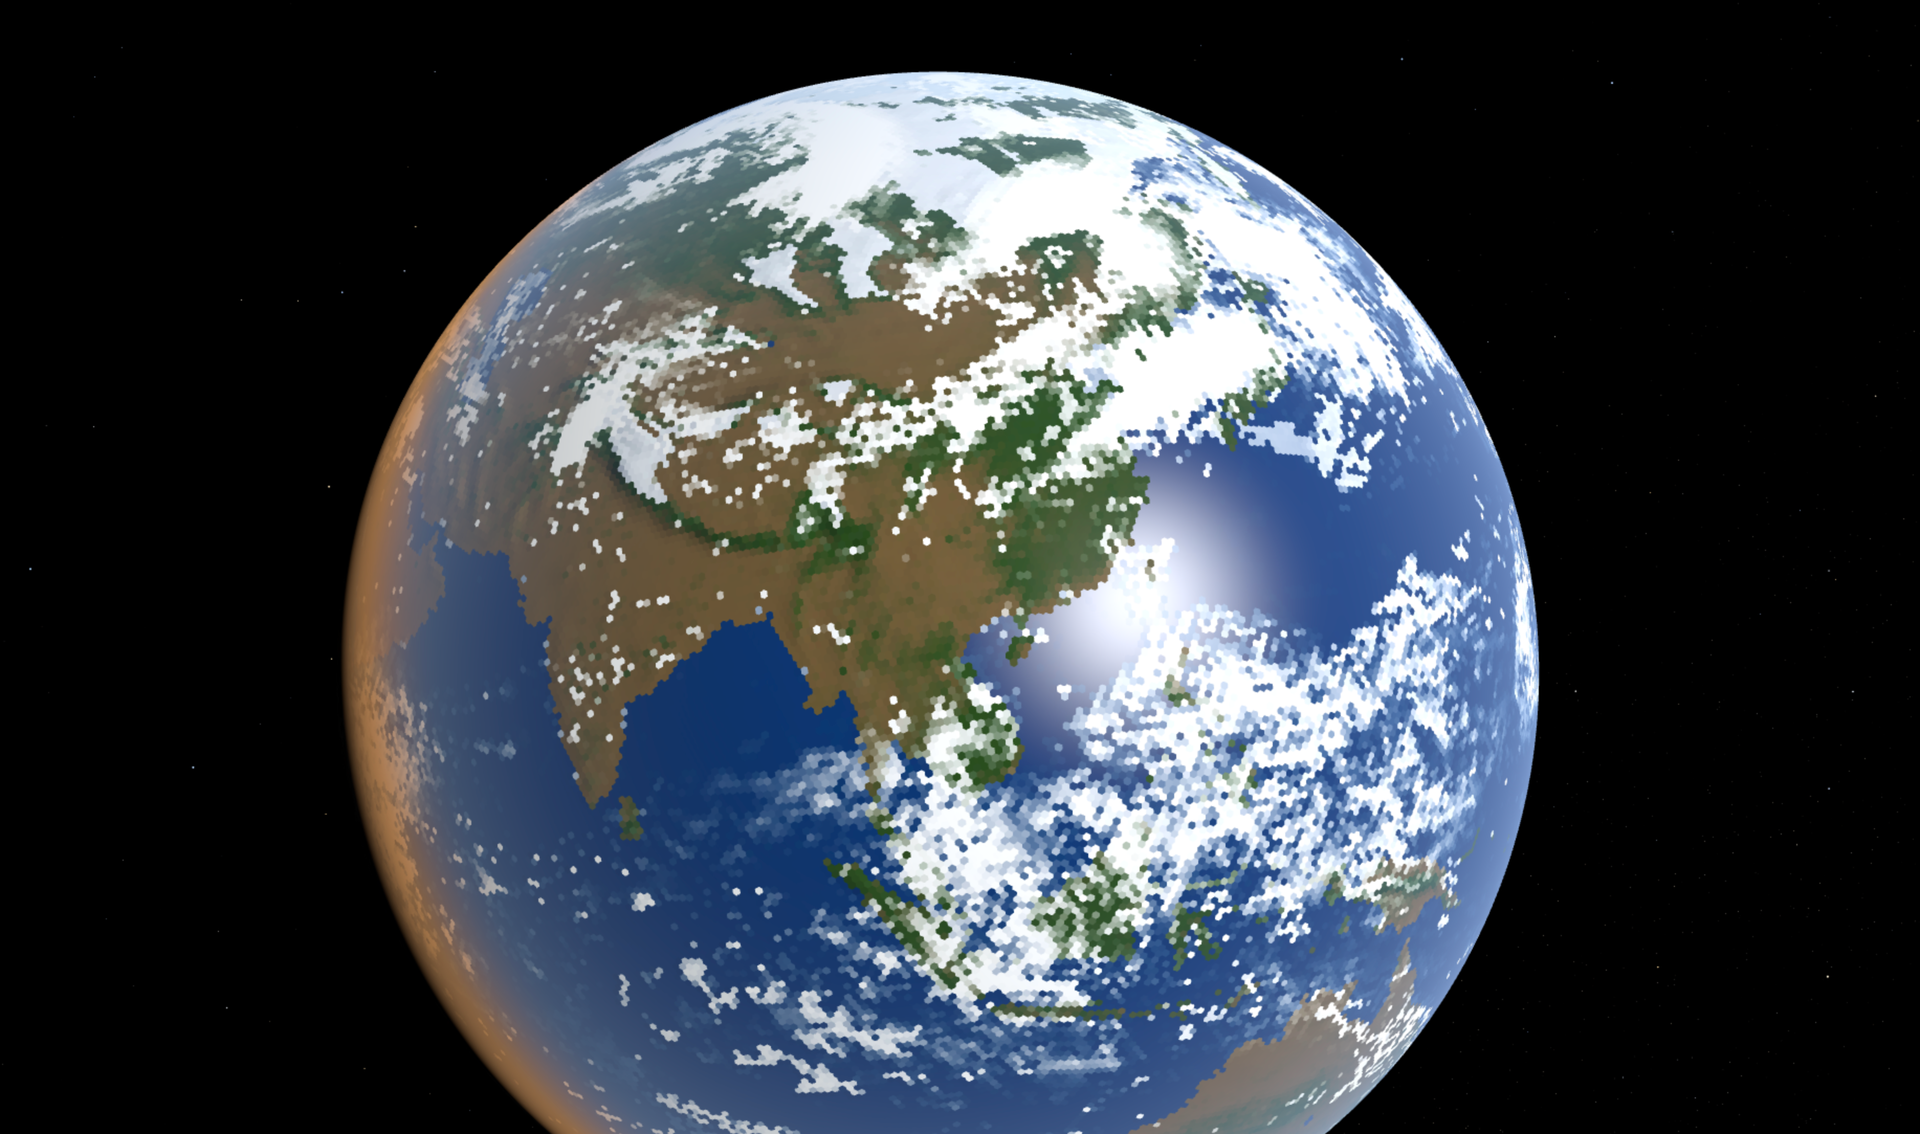
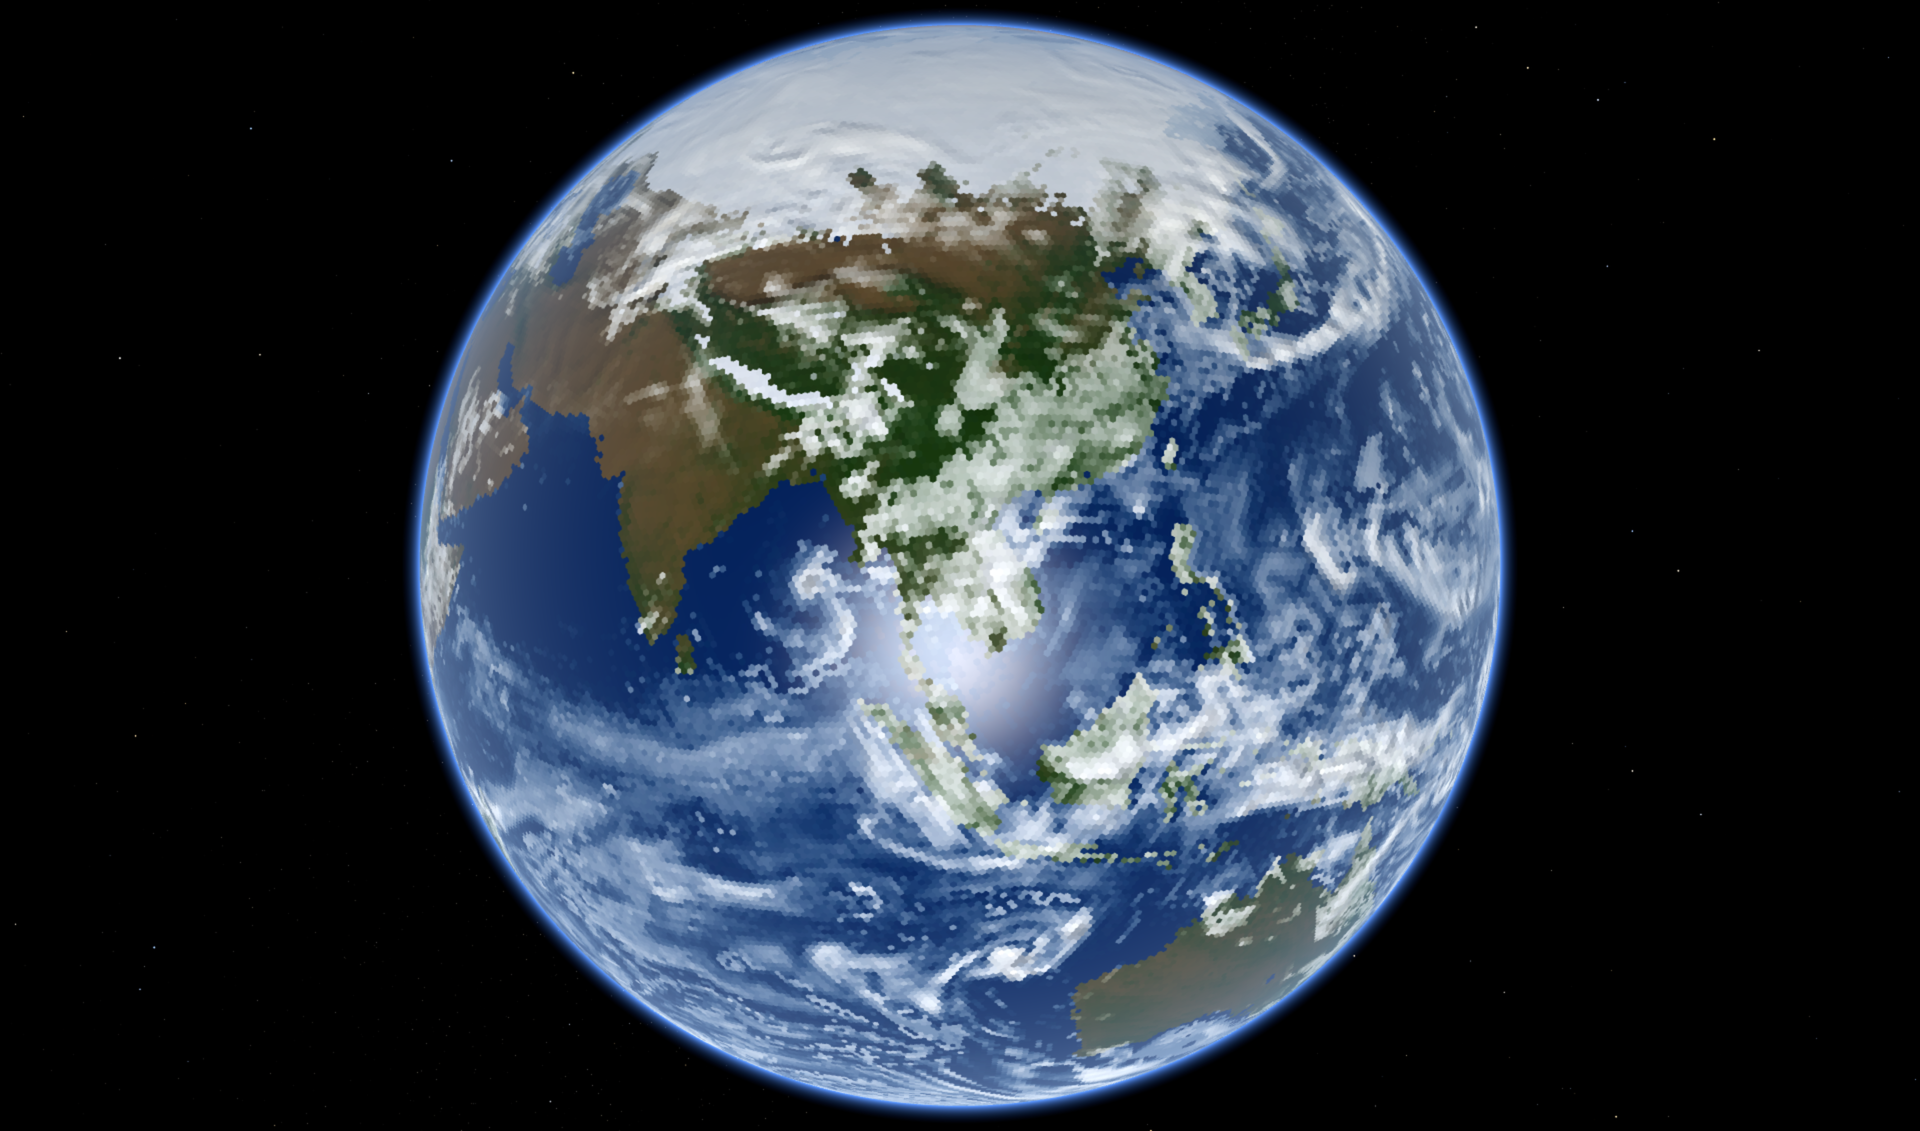
Landing page: twenty new carousel views from the eleven state
The ten slides from the six-layer ocean give way to twenty taken from
the page's default state (eleven128_day1825, the March equinox) in a
headless Chrome for Testing at twice the display size and scaled to
1920 wide: the five satellite views (the Americas with the terminator
over the Pacific, Europe and Africa, Asia and Australia, sunset over
the Pacific with the twilight at the limb, Antarctica at the equinox),
nine atmosphere views (surface wind, the 250 hPa jet, a Gulf of Alaska
storm with isobars and vectors, surface temperature, total precipitable
water, vertical motion through a North Atlantic storm, outgoing
longwave, March snow cover, vegetation) and six ocean views (the Gulf
Stream, the Kuroshio, sea surface temperature, the Equatorial
Undercurrent at 150 m, the Labrador and Irminger Seas' winter mixed
layer, the North Brazil Current). Each slide links to its view with the
page's current lighting defaults.

diff --git a/index.html b/index.html
@@ -59,17 +59,27 @@
     <section class="card hero">
       <div class="carousel" role="region" aria-roledescription="carousel" aria-label="Views of the model">
         <div class="frame">
-          <a class="slide" href="climate.html?view=space&overlay=current&animate=particles&isobars=off&graticule=off&projection=sphere&lat=8.2&lon=-91.4&zoom=307&level=surface&isobarStep=10&heightStep=30&palette=dusk&panel=closed&sun=1.11&ambient=0.0008&stats=off&roll=0.5" data-caption="Satellite view of the Americas"><img data-src="screenshots/carousel_1.png" width="1920" height="1131" alt="The Americas seen from space, with clouds over the Caribbean and the Amazon and night over the eastern Pacific"></a>
-          <a class="slide" href="climate.html?view=space&overlay=current&animate=particles&isobars=off&graticule=off&projection=sphere&lat=7.6&lon=10.8&zoom=307&level=surface&isobarStep=10&heightStep=30&palette=dusk&panel=closed&sun=1.11&ambient=0.0008&stats=off&roll=4.9" data-caption="Satellite view of Africa and Europe"><img data-src="screenshots/carousel_2.png" width="1920" height="1135" alt="Africa and Europe seen from space, with the Sahara, the Mediterranean and the sunglint off West Africa"></a>
-          <a class="slide" href="climate.html?view=space&overlay=current&animate=particles&isobars=off&graticule=off&projection=sphere&lat=15.6&lon=103.1&zoom=336&level=surface&isobarStep=10&heightStep=30&palette=dusk&panel=closed&sun=1.11&ambient=0.0008&stats=off&roll=3.6" data-caption="Satellite view of East Asia, India and Australia"><img data-src="screenshots/carousel_3.png" width="1920" height="1134" alt="Asia seen from space, from Siberia to the cloud over the Maritime Continent and northern Australia"></a>
-          <a class="slide" href="climate.html?view=atmosphere&overlay=wind&animate=particles&isobars=off&graticule=off&projection=map&lat=0.9&lon=4.6&zoom=136&level=surface&isobarStep=10&heightStep=30&palette=dusk&panel=closed&sun=1.11&ambient=0.0008&stats=off&roll=-0.3" data-caption="Surface wind speed on the Equal Earth projection, with wind particles"><img data-src="screenshots/carousel_4.png" width="1920" height="1108" alt="A world map of surface wind speed, with the storm tracks of both hemispheres in green and red"></a>
-          <a class="slide" href="climate.html?view=atmosphere&overlay=wind&animate=none&isobars=on&graticule=off&projection=sphere&lat=47&lon=27&zoom=580&level=250&isobarStep=10&heightStep=30&palette=dusk&panel=closed&sun=1.11&ambient=0.0008&stats=off" data-caption="The jet stream over Europe, the Middle East and North Africa"><img data-src="screenshots/carousel_5.png" width="1920" height="1097" alt="Wind speed at 250 hPa with height contours, the polar jet over Europe and the subtropical jet over North Africa and the Middle East"></a>
-          <a class="slide" href="climate.html?view=atmosphere&overlay=wind&animate=arrows&isobars=off&graticule=off&projection=sphere&lat=45&lon=125&zoom=1000&level=surface&isobarStep=10&heightStep=30&palette=dusk&panel=closed&sun=1.11&ambient=0.0008&stats=off" data-caption="Wind speed and vectors around a storm over northern China"><img data-src="screenshots/carousel_6.png" width="1920" height="1100" alt="A close view of surface wind speed and wind arrows circling a storm over northeast China"></a>
-          <a class="slide" href="climate.html?view=ocean&overlay=current&animate=particles&isobars=off&graticule=off&projection=sphere&lat=27.4&lon=133.5&zoom=1050&level=surface&isobarStep=10&heightStep=30&palette=dusk&panel=closed&sun=1.11&ambient=0.0008&stats=off" data-caption="The Kuroshio Current: current speed with particles"><img data-src="screenshots/carousel_7.png" width="1920" height="1094" alt="Ocean current speed south of Japan, with the Kuroshio running from Taiwan along the Japanese coast and out into the Pacific"></a>
-          <a class="slide" href="climate.html?view=ocean&overlay=current&animate=particles&isobars=off&graticule=off&projection=sphere&lat=29.2&lon=-73.1&zoom=703&level=surface&isobarStep=5&heightStep=30&palette=dusk&panel=closed&sun=1.11&ambient=0.0008&stats=off&roll=-2.3" data-caption="The Gulf Stream"><img data-src="screenshots/carousel_8.png" width="1920" height="1094" alt="Ocean current speed off North America, with the Gulf Stream leaving the Gulf of Mexico and meandering out into the Atlantic"></a>
-          <a class="slide" href="climate.html?view=atmosphere&overlay=temp&animate=particles&isobars=on&graticule=off&projection=map&lat=0.1&lon=150.4&zoom=140&level=surface&isobarStep=10&heightStep=30&palette=dusk&panel=closed&sun=1.11&ambient=0.0008&stats=off" data-caption="Global surface temperature with sea-level pressure isobars and wind particles"><img data-src="screenshots/carousel_9.png" width="1920" height="1101" alt="A world map of surface temperature centred on the Pacific, with isobars and the wind particles"></a>
-          <a class="slide" href="climate.html?view=atmosphere&overlay=tpw&animate=particles&isobars=off&graticule=off&projection=map&lat=1.8&lon=-0.2&zoom=140&level=surface&isobarStep=10&heightStep=30&palette=viridis&panel=closed&sun=1.11&ambient=0.0008&stats=off" data-caption="Global total precipitable water with surface wind particles"><img data-src="screenshots/carousel_10.png" width="1920" height="1104" alt="A world map of total precipitable water, with the moist tropics in yellow and plumes of moisture reaching into the midlatitudes"></a>
-          <noscript><img src="screenshots/carousel_1.png" width="1920" height="1131" alt="The Americas seen from space"></noscript>
+          <a class="slide" href="climate.html?view=space&projection=sphere&lat=8&lon=-91&zoom=307&panel=closed&stats=off&graticule=off" data-caption="Satellite view of the Americas"><img data-src="screenshots/carousel_1.png" width="1920" height="1131" alt="The Americas seen from space, with cloud over the Caribbean and the Amazon and the sunglint in the eastern Pacific"></a>
+          <a class="slide" href="climate.html?view=space&projection=sphere&lat=8&lon=11&zoom=307&panel=closed&stats=off&graticule=off" data-caption="Satellite view of Europe and Africa"><img data-src="screenshots/carousel_2.png" width="1920" height="1131" alt="Europe and Africa seen from space, with the Sahara, the Mediterranean and the rain clouds of the Congo basin"></a>
+          <a class="slide" href="climate.html?view=space&projection=sphere&lat=16&lon=103&zoom=336&panel=closed&stats=off&graticule=off" data-caption="Satellite view of Asia and Australia"><img data-src="screenshots/carousel_3.png" width="1920" height="1131" alt="Asia seen from space, from Siberia to the cloud over the Maritime Continent and northern Australia"></a>
+          <a class="slide" href="climate.html?view=space&projection=sphere&lat=12&lon=170&zoom=520&panel=closed&stats=off&graticule=off" data-caption="Sunset over the Pacific: the terminator and the twilight at the limb"><img data-src="screenshots/carousel_4.png" width="1920" height="1131" alt="A close view of the day–night terminator crossing the Pacific, the sunlit clouds reddening toward the night side and the blue twilight along the limb"></a>
+          <a class="slide" href="climate.html?view=space&projection=sphere&lat=-72&lon=0&zoom=340&panel=closed&stats=off&graticule=off" data-caption="Antarctica at the March equinox, with the sun on the horizon"><img data-src="screenshots/carousel_5.png" width="1920" height="1131" alt="Antarctica and the Southern Ocean seen from above the pole, half lit by a sun on the horizon, with the sea ice and the storms around the continent"></a>
+          <a class="slide" href="climate.html?view=atmosphere&overlay=wind&level=surface&animate=particles&isobars=off&projection=map&lat=0.9&lon=4.6&zoom=136&palette=dusk&panel=closed&stats=off&graticule=off" data-caption="Surface wind speed on the Equal Earth projection, with wind particles"><img data-src="screenshots/carousel_6.png" width="1920" height="1131" alt="A world map of surface wind speed, with the storm tracks of both hemispheres in green and red and the trade winds in blue"></a>
+          <a class="slide" href="climate.html?view=atmosphere&overlay=wind&level=250&isobars=on&heightStep=30&animate=none&projection=sphere&lat=50&lon=-15&zoom=560&palette=dusk&panel=closed&stats=off&graticule=off" data-caption="The jet stream at 250 hPa over the North Atlantic and Europe, with height contours"><img data-src="screenshots/carousel_7.png" width="1920" height="1131" alt="Wind speed at 250 hPa with height contours, the polar jet crossing the Atlantic into Europe"></a>
+          <a class="slide" href="climate.html?view=atmosphere&overlay=wind&level=surface&isobars=on&isobarStep=5&animate=arrows&projection=sphere&lat=54&lon=-155&zoom=1000&palette=dusk&panel=closed&stats=off&graticule=off" data-caption="A storm in the Gulf of Alaska: surface wind, isobars and wind vectors"><img data-src="screenshots/carousel_8.png" width="1920" height="1131" alt="A close view of surface wind speed, isobars and wind arrows circling a storm in the Gulf of Alaska"></a>
+          <a class="slide" href="climate.html?view=atmosphere&overlay=temp&level=surface&isobars=on&isobarStep=10&animate=particles&projection=map&lat=0.1&lon=150.4&zoom=140&palette=dusk&panel=closed&stats=off&graticule=off" data-caption="Global surface temperature with sea-level pressure isobars and wind particles"><img data-src="screenshots/carousel_9.png" width="1920" height="1131" alt="A world map of surface temperature centred on the Pacific, with isobars and wind particles"></a>
+          <a class="slide" href="climate.html?view=atmosphere&overlay=tpw&animate=particles&isobars=off&projection=map&lat=1.8&lon=-0.2&zoom=140&palette=viridis&panel=closed&stats=off&graticule=off" data-caption="Total precipitable water, with surface wind particles"><img data-src="screenshots/carousel_10.png" width="1920" height="1131" alt="A world map of total precipitable water, with the moist tropics in yellow and plumes of moisture reaching into the midlatitudes"></a>
+          <a class="slide" href="climate.html?view=atmosphere&overlay=vertical&level=500&animate=none&isobars=off&projection=sphere&lat=50&lon=-35&zoom=560&palette=blue-gray-red&panel=closed&stats=off&graticule=off" data-caption="Vertical motion at 500 hPa through a North Atlantic storm"><img data-src="screenshots/carousel_11.png" width="1920" height="1131" alt="Rising and sinking air at 500 hPa over the North Atlantic, red where the fronts of a storm south of Greenland lift the air and blue where it sinks behind them"></a>
+          <a class="slide" href="climate.html?view=atmosphere&overlay=olr&animate=none&isobars=off&projection=map&lat=0&lon=140&zoom=140&palette=magma&panel=closed&stats=off&graticule=off" data-caption="Outgoing longwave radiation: cold cloud tops dark, warm deserts bright"><img data-src="screenshots/carousel_12.png" width="1920" height="1131" alt="A world map of outgoing longwave radiation, dark where tall cloud reaches the cold upper troposphere and bright over the deserts"></a>
+          <a class="slide" href="climate.html?view=atmosphere&overlay=snow&animate=none&isobars=off&projection=sphere&lat=62&lon=-50&zoom=360&palette=cividis&panel=closed&stats=off&graticule=off" data-caption="Snow cover across the Northern Hemisphere in March"><img data-src="screenshots/carousel_13.png" width="1920" height="1131" alt="Snow on land across Canada, Greenland and Siberia at the end of winter, seen from above the North Atlantic"></a>
+          <a class="slide" href="climate.html?view=atmosphere&overlay=veg&animate=none&isobars=off&projection=map&lat=10&lon=10&zoom=140&palette=viridis&panel=closed&stats=off&graticule=off" data-caption="Vegetation cover, grown by the land model"><img data-src="screenshots/carousel_14.png" width="1920" height="1131" alt="A world map of vegetation cover, dense in the rainforests and the temperate forests and bare in the deserts"></a>
+          <a class="slide" href="climate.html?view=ocean&overlay=current&depth=surface&animate=particles&projection=sphere&lat=32&lon=-71&zoom=950&roll=-2.3&palette=dusk&panel=closed&stats=off&graticule=off" data-caption="The Gulf Stream: current speed with particles"><img data-src="screenshots/carousel_15.png" width="1920" height="1131" alt="Ocean current speed off North America, with the Gulf Stream leaving the Gulf of Mexico and meandering out into the Atlantic"></a>
+          <a class="slide" href="climate.html?view=ocean&overlay=current&depth=surface&animate=particles&projection=sphere&lat=31&lon=137&zoom=1250&palette=dusk&panel=closed&stats=off&graticule=off" data-caption="The Kuroshio Current"><img data-src="screenshots/carousel_16.png" width="1920" height="1131" alt="Ocean current speed south of Japan, with the Kuroshio running from Taiwan along the Japanese coast and out into the Pacific"></a>
+          <a class="slide" href="climate.html?view=ocean&overlay=seatemp&depth=surface&animate=particles&projection=map&lat=0&lon=150&zoom=140&palette=inferno&panel=closed&stats=off&graticule=off" data-caption="Sea surface temperature, with current particles"><img data-src="screenshots/carousel_17.png" width="1920" height="1131" alt="A world map of sea surface temperature, warm across the tropics and cold around the poles, with particles tracing the surface currents"></a>
+          <a class="slide" href="climate.html?view=ocean&overlay=current&depth=150&animate=particles&projection=sphere&lat=0&lon=-160&zoom=420&palette=dusk&panel=closed&stats=off&graticule=off" data-caption="The Equatorial Undercurrent at 150 m depth"><img data-src="screenshots/carousel_18.png" width="1920" height="1131" alt="Current speed at 150 m depth along the equatorial Pacific, with the undercurrent flowing east beneath the trade winds"></a>
+          <a class="slide" href="climate.html?view=ocean&overlay=layer&depth=surface&animate=none&projection=sphere&lat=58&lon=-40&zoom=520&palette=cividis&panel=closed&stats=off&graticule=off" data-caption="Winter deep mixing in the Labrador and Irminger Seas: mixed layer depth"><img data-src="screenshots/carousel_19.png" width="1920" height="1131" alt="Mixed layer depth over the North Atlantic in March, with the deep mixing of the Labrador and Irminger Seas"></a>
+          <a class="slide" href="climate.html?view=ocean&overlay=current&depth=surface&animate=particles&projection=sphere&lat=8&lon=-52&zoom=650&palette=dusk&panel=closed&stats=off&graticule=off" data-caption="The North Brazil Current and the equatorial Atlantic"><img data-src="screenshots/carousel_20.png" width="1920" height="1131" alt="Ocean current speed off the coast of Brazil and the Guianas, with the North Brazil Current running north-west along the coast toward the Caribbean"></a>
+          <noscript><img src="screenshots/carousel_1.png" width="1920" height="1131" alt="Satellite view of the Americas"></noscript>
         </div>
         <div class="controls">
           <button type="button" class="prev" aria-label="Previous view"><svg viewBox="0 0 16 16" aria-hidden="true"><path d="M10.5 2.5 5 8l5.5 5.5 1.1-1.1L7.2 8l4.4-4.4z"/></svg></button>
